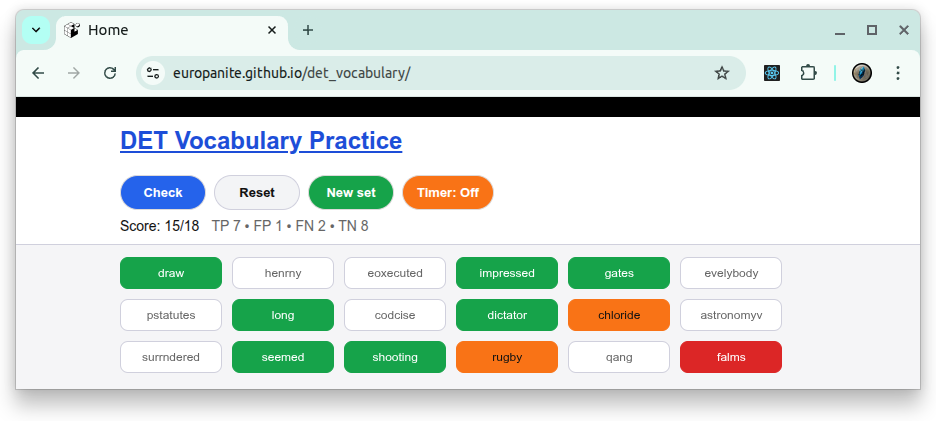
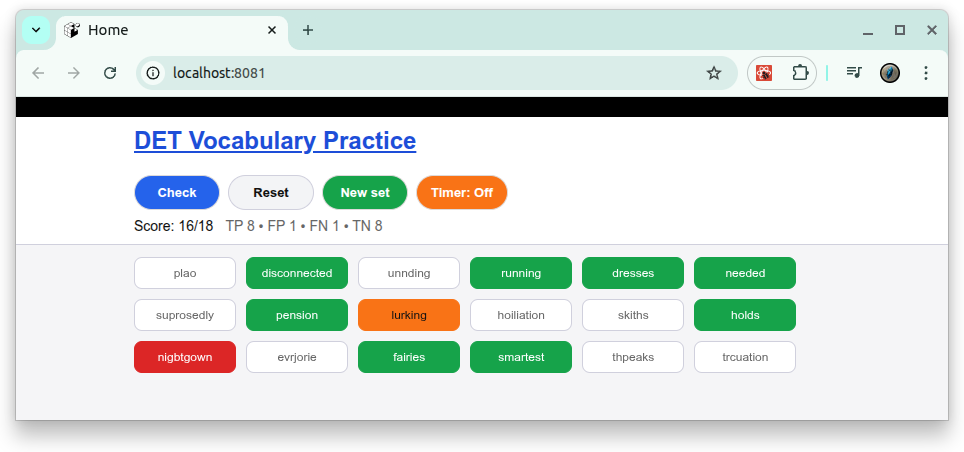
fix/algo

Changed region(s): [[0.0, 0.0309, 0.9915, 0.8955], [0.0, 0.0309, 0.1549, 0.1235]]

diff --git a/frontend/app/screens/HomeScreen.tsx b/frontend/app/screens/HomeScreen.tsx
@@ -351,6 +351,130 @@ function makePseudoWord(
   return null;
 }
 
+/**
+ * Generate a plausible pseudo-word by mutating a single real word.
+ * - Only a-z
+ * - 1 mutation step (sub / ins / del)
+ * - Not equal to original
+ * - Not present in dictionary
+ */
+function makeMutatedPseudoWord(
+  base: string,
+  dictionary: Set<string>,
+  maxTries = 8
+): string | null {
+  const vowels = ["a", "e", "i", "o", "u"];
+  const consonants = [
+    "b","c","d","f","g","h","j","k","l","m",
+    "n","p","q","r","s","t","v","w","x","y","z",
+  ];
+
+  const clean = base.toLowerCase().replace(/[^a-z]/g, "");
+  if (clean.length < 3) return null;
+
+  for (let attempt = 0; attempt < maxTries; attempt += 1) {
+    let chars = clean.split("");
+    const op = Math.floor(Math.random() * 3);
+
+    if (op === 0) {
+      // substitution
+      const i = Math.floor(Math.random() * chars.length);
+      const src = chars[i];
+      const pool = /[aeiou]/.test(src) ? vowels : consonants;
+      const replacement = pool[Math.floor(Math.random() * pool.length)];
+      chars[i] = replacement;
+    } else if (op === 1) {
+      // insertion
+      const i = Math.floor(Math.random() * (chars.length + 1));
+      const pool = Math.random() < 0.4 ? vowels : consonants;
+      const ch = pool[Math.floor(Math.random() * pool.length)];
+      chars = [...chars.slice(0, i), ch, ...chars.slice(i)];
+    } else {
+      // deletion
+      if (chars.length > 4) {
+        const i = Math.floor(Math.random() * chars.length);
+        chars.splice(i, 1);
+      } else {
+        // fallback to substitution for very short words
+        const j = Math.floor(Math.random() * chars.length);
+        const pool = vowels.concat(consonants);
+        chars[j] = pool[Math.floor(Math.random() * pool.length)];
+      }
+    }
+
+    const candidate = chars.join("");
+    if (
+      candidate.length >= 3 &&
+      candidate !== clean &&
+      !dictionary.has(candidate)
+    ) {
+      return candidate;
+    }
+  }
+
+  return null;
+}
+
+/**
+ * Generate a DET-style pseudo-word by blending two real words.
+ * Example: "some" + "other" -> "somether"-like strings.
+ *
+ * Strategy:
+ * - Pick two different real words from the pool.
+ * - Take a prefix of the first and a suffix of the second.
+ * - Concatenate them.
+ * - Reject if the result is a real word or too similar/short.
+ */
+function makeBlendedPseudoWordFromPool(
+  pool: string[],
+  dictionary: Set<string>,
+  maxTries = 16
+): string | null {
+  if (pool.length < 2) return null;
+
+  for (let attempt = 0; attempt < maxTries; attempt += 1) {
+    const w1 = pool[Math.floor(Math.random() * pool.length)];
+    const w2 = pool[Math.floor(Math.random() * pool.length)];
+    if (!w1 || !w2 || w1 === w2) continue;
+
+    const a = normalizeWord(w1);
+    const b = normalizeWord(w2);
+    if (!isGoodCandidateWord(a) || !isGoodCandidateWord(b)) continue;
+
+    // Choose cut positions
+    // prefix length of first word
+    const minPrefix = Math.min(2, a.length - 1);
+    const maxPrefix = Math.max(minPrefix, Math.min(a.length - 1, 4));
+    const prefixLen =
+      minPrefix + Math.floor(Math.random() * (maxPrefix - minPrefix + 1));
+
+    // suffix start index of second word
+    const minSuffixStart = 1;
+    const maxSuffixStart = Math.max(
+      minSuffixStart,
+      Math.min(b.length - 2, 4)
+    );
+    const suffixStart =
+      minSuffixStart +
+      Math.floor(Math.random() * (maxSuffixStart - minSuffixStart + 1));
+
+    const prefix = a.slice(0, prefixLen);
+    const suffix = b.slice(suffixStart);
+    const candidate = (prefix + suffix).toLowerCase();
+
+    // Basic filters
+    if (candidate.length < 4) continue;
+    if (candidate === a || candidate === b) continue;
+    if (!/[aeiou]/.test(candidate)) continue; // must contain a vowel
+    if (!/^[a-z]+$/.test(candidate)) continue;
+    if (dictionary.has(candidate)) continue;
+
+    return candidate;
+  }
+
+  return null;
+}
+
 /* -------------------------------------------------------------------------- */
 /* Problem set generation                                                      */
 /* -------------------------------------------------------------------------- */
@@ -394,11 +518,22 @@ function buildProblemSet(size: number, difficulty: Difficulty): Item[] {
     safety < targetSize * 40
   ) {
     safety += 1;
-    const src =
-      pseudoSource[Math.floor(Math.random() * pseudoSource.length)];
-    const candidate = makePseudoWord(src, dictionary);
+
+    let candidate: string | null = null;
+
+    // Prefer DET-like blends most of the time,
+    // but occasionally fall back to single-word mutation
+    if (Math.random() < 0.7) {
+      candidate = makeBlendedPseudoWordFromPool(pseudoSource, dictionary);
+    } else {
+      const src =
+        pseudoSource[Math.floor(Math.random() * pseudoSource.length)];
+      candidate = makeMutatedPseudoWord(src, dictionary);
+    }
+
     if (!candidate) continue;
     if (used.has(candidate)) continue;
+
     used.add(candidate);
     pseudoWords.push(candidate);
   }
